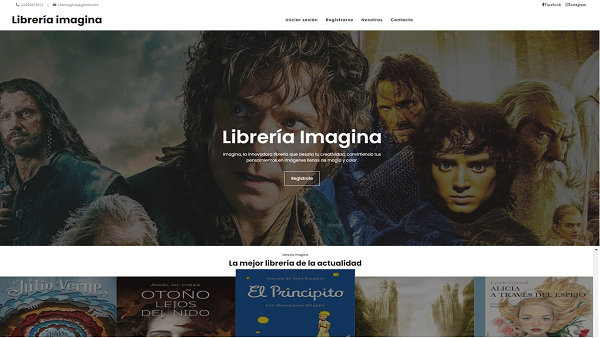
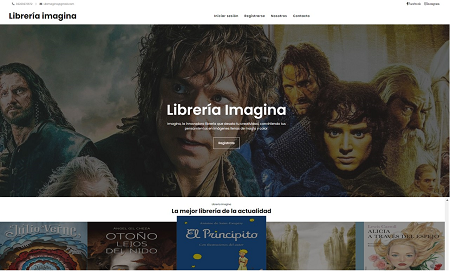
carousel imagenes listas

diff --git a/css/estilos.css b/css/estilos.css
@@ -82,6 +82,10 @@ header nav a.activo {
   border: none;
   margin-right: 3px;
 }
+.contenedor-titulo-controles .indicadores button:hover, 
+.contenedor-titulo-controles .indicadores button.activo{
+  background: red;
+}
 
 .pelicula-principal .contenedor{
   margin: 0 auto;
@@ -94,7 +98,7 @@ header nav a.activo {
 }
 .pelicula-principal .descripcion{
   font-weight: normal;
-  font-size: 1.8em;
+  font-size: 1.9em;
  
 }
 .peliculas-recomendadas .contenedor-principal{
@@ -132,14 +136,29 @@ cambie de color */
 .peliculas-recomendadas .contenedor-principal .flecha-izquierda:hover,
 .peliculas-recomendadas .contenedor-principal .flecha-derecha:hover {
   background: rgba(0, 0, 0, .9);
+ 
+}
+/* ------------ CAROUSEL ------------*/
 
+.peliculas-recomendadas .contenedor-carousel{
+  width: 100%;
+  padding: 20px 0;
+  /* oculta la imagen que sige para estetica y eviita el escrol de abajo */
+  overflow: hidden;
+  /* cambia */
+  scroll-behavior: smooth;
 }
 
+.peliculas-recomendadas .contenedor-carousel .carousel{
+  display: flex;
+  flex-wrap: nowrap;
 
+}
+/* esto posicionas las imagenes con el tamanio que corresponde para el carousel*/
+.peliculas-recomendadas .contenedor-carousel .carousel .pelicula{
+  width: 35%;
 
-
-
-
+}
 
 /* ----------- MEDIA QUERIES ----------*/
 @media screen and (max-width: 800px){
